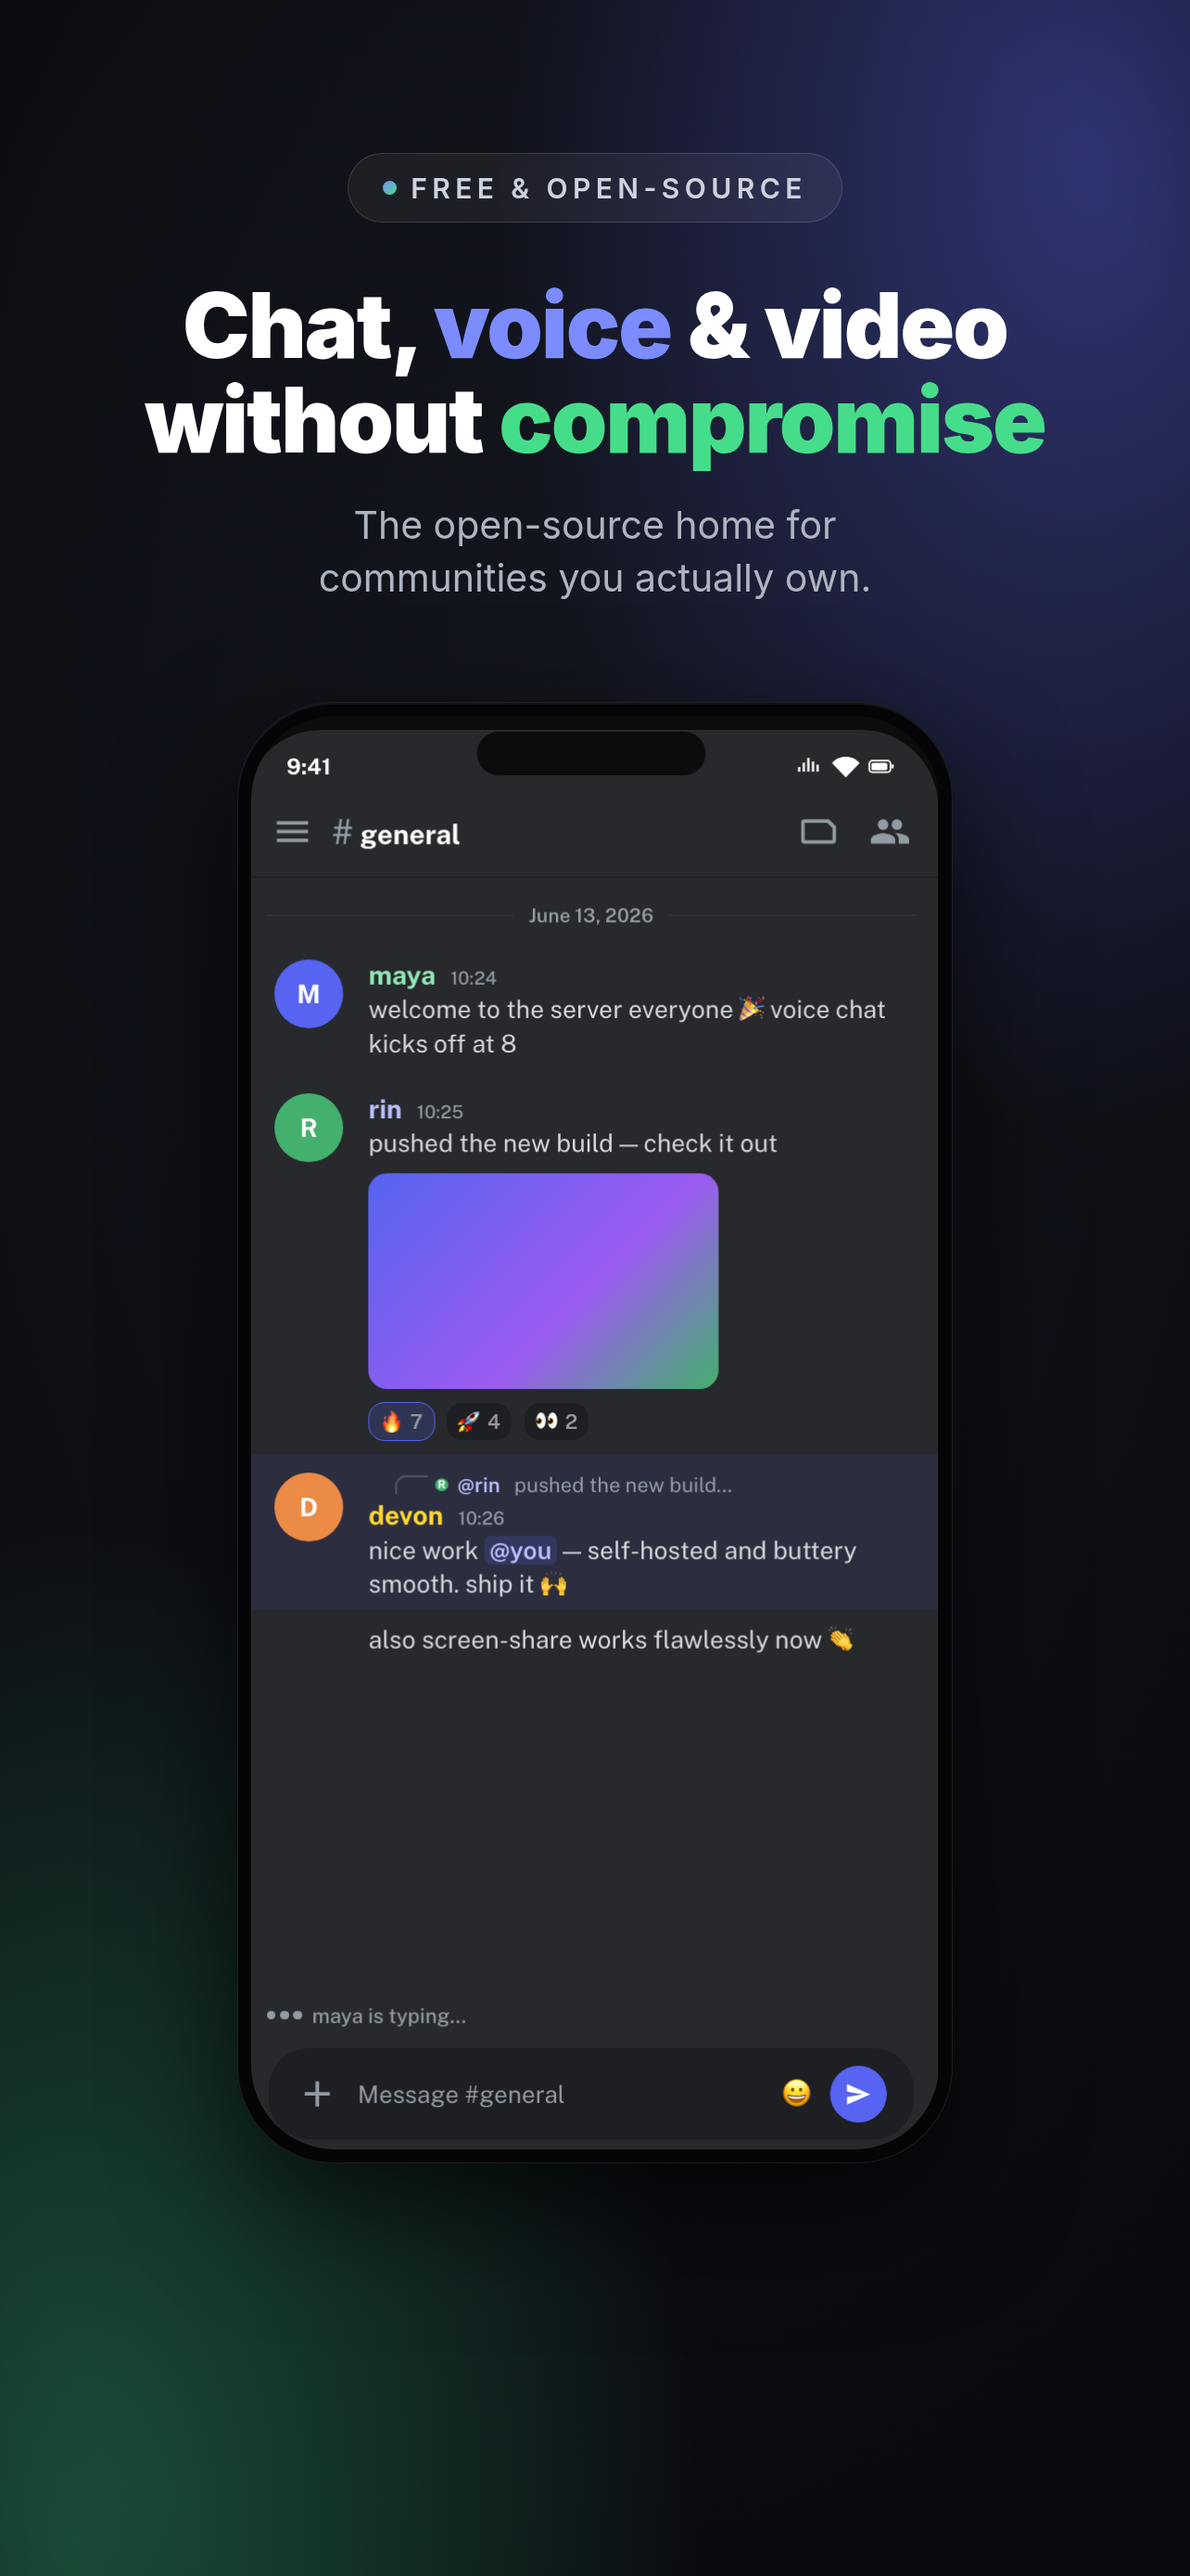
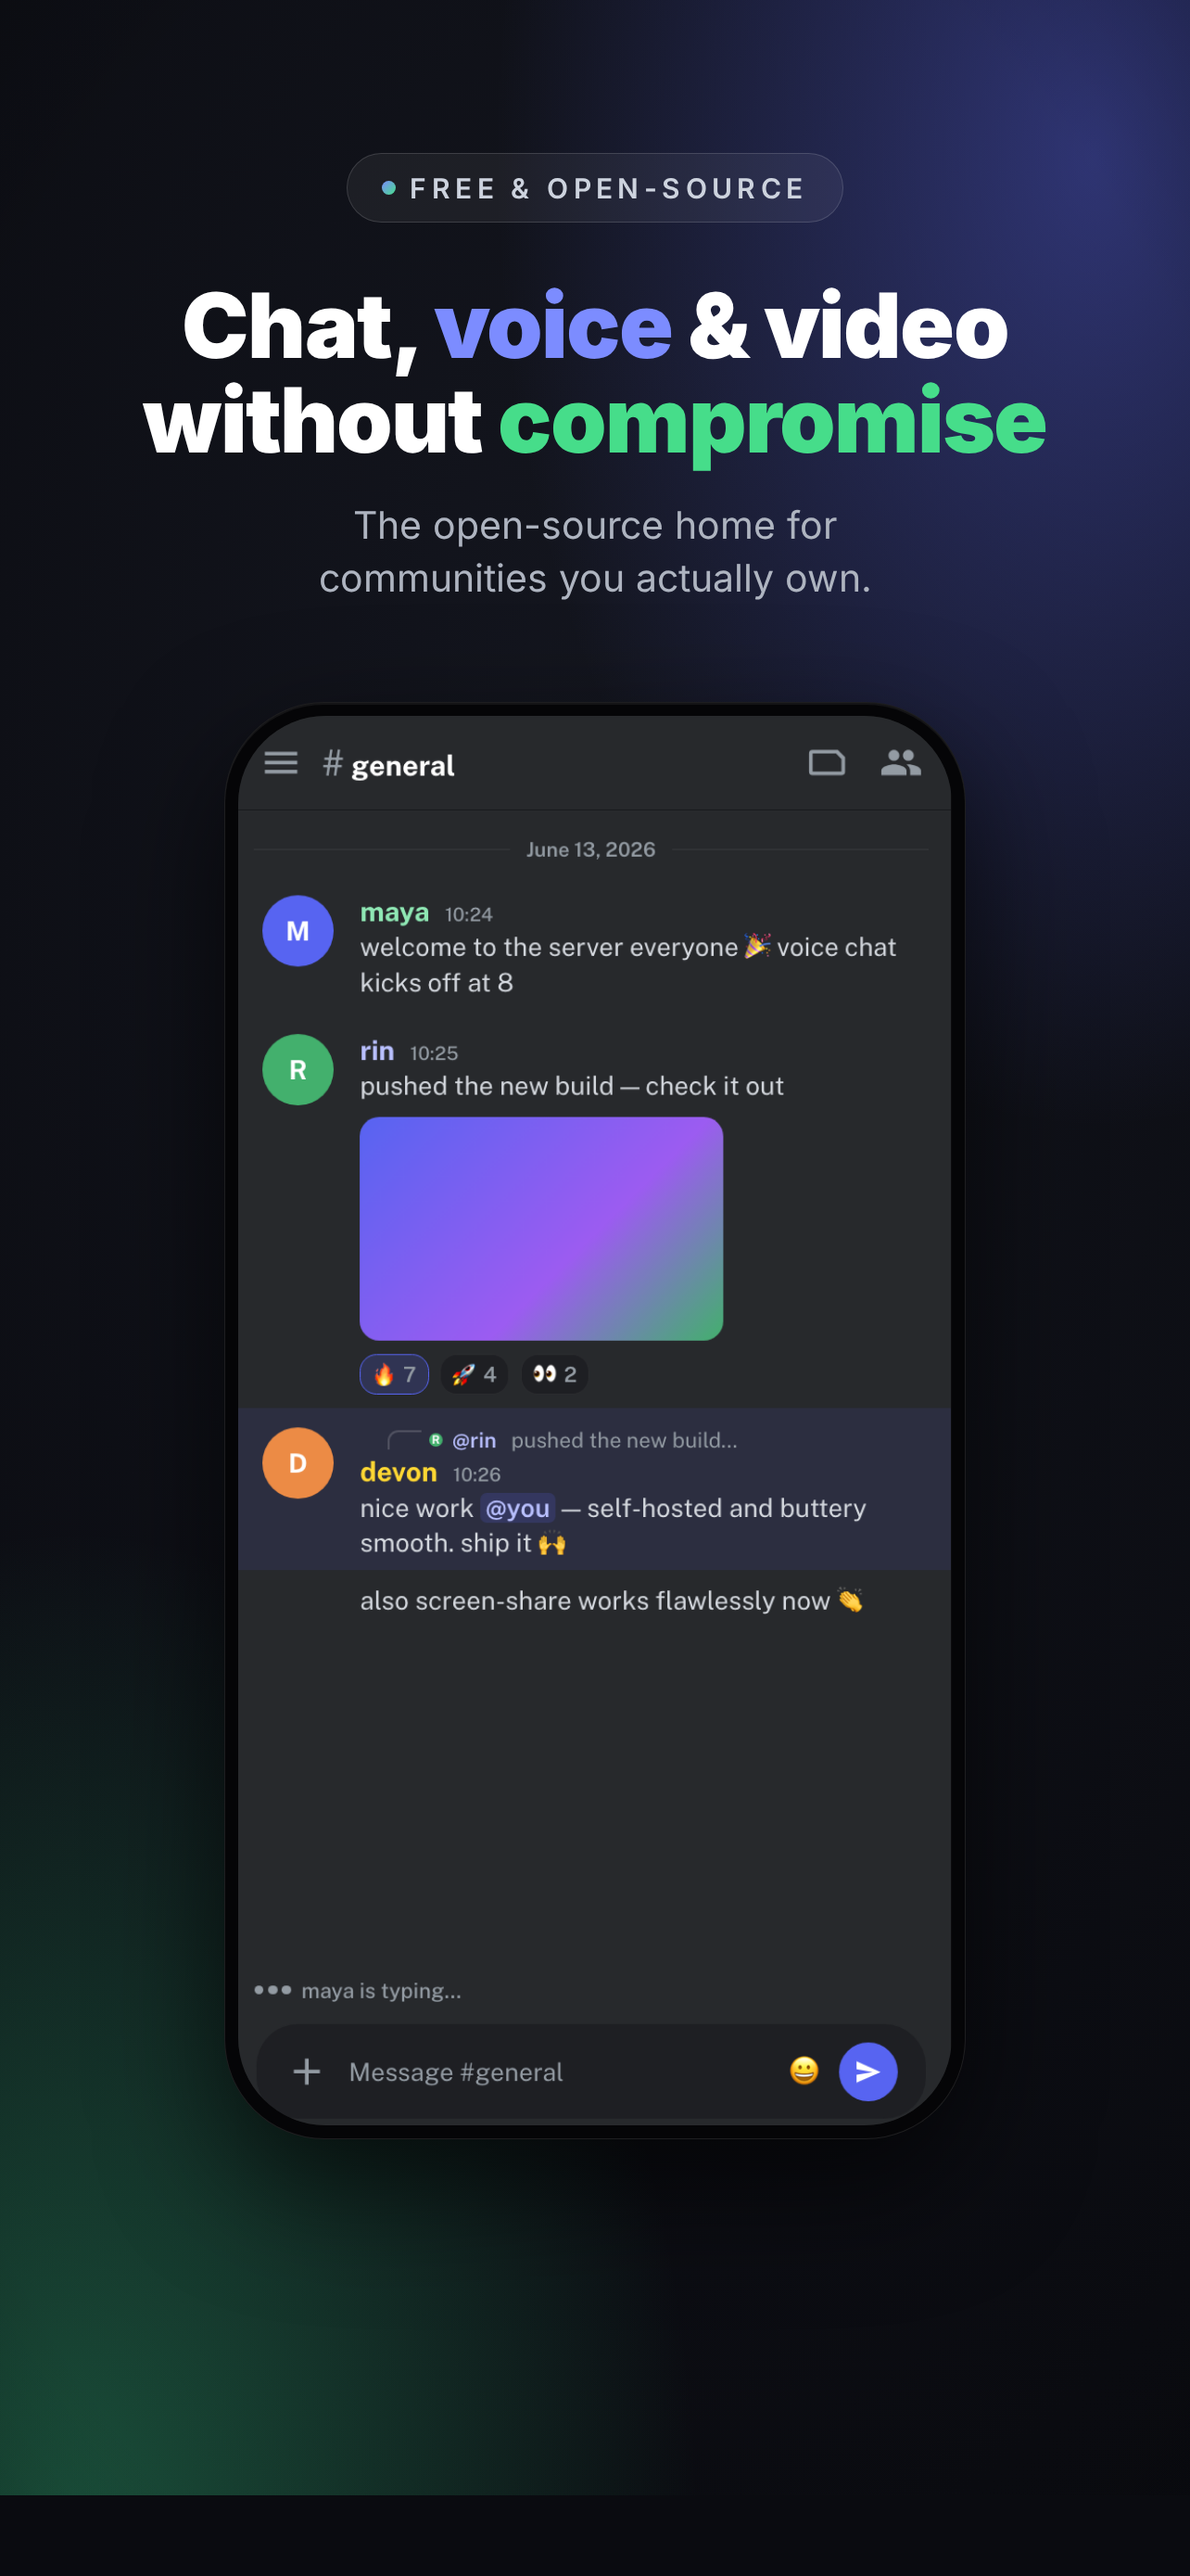
fix(ios): clear guideline 2.3.10 from the App Store screenshots
App Review rejected 0.2.16 (build 160) under 2.3.10 for two things the
generator in store-media/ios-generator/ put into all twelve screenshots.

Scene 6 rendered an iOS/Android/Desktop/Web badge row — the "information
about third-party platforms" the guideline names. The row, its CSS and the
JS that painted it are gone; every scene now has the same pill/headline/
subhead rhythm, so nothing is left hanging where it was. Scene 5's pill
loses "Powered by LiveKit / WebRTC" for "Low-Latency Calls" on the same
principle: the metadata describes the iOS app, not what is under it.

Every inner capture carried a painted 9:41 + signal/Wi-Fi/battery bar that
is not iOS's. They are cropped, not redrawn, so no status bar is shown at
all: each starts at the app's own app bar (740x1462, and 740x1422 for the
signed-out t-06, whose frame sat 44px lower). template.html's .screen
aspect follows the new capture size instead of the old 740/1542, so the
frames still crop rather than stretch.

iPad stops reusing the phone aspect. --screen-ar, the corner radii and the
bezel weight are per-device variables now, and the tablet frame uses an
iPad portrait 1640/2360 so a 2048x2732 render no longer reads as an iPhone
mockup. That frame is wider than a phone capture, so scenes can set `focus`
to pick which end survives the crop; the members and voice scenes anchor
bottom to keep the profile card and the call controls.

render.sh's iPhone window matches the canvas (1284x2778) instead of the
[…]

diff --git a/store-media/ios-generator/template.html b/store-media/ios-generator/template.html
@@ -20,13 +20,20 @@
     -webkit-font-smoothing:antialiased;
     position:relative;
   }
-  /* canvas size + per-device tuning */
+  /* canvas size + per-device tuning.
+     --screen-ar is the framed screen's aspect: the phone frame matches the
+     inner captures in ./inner (740x1462 after the status bar was cropped off),
+     the tablet frame uses an iPad portrait aspect so the iPad renders are not
+     an iPhone-shaped mockup. --dev-r/--screen-r/--dev-pad are fractions of
+     --dev-w, so each frame keeps its own corner radii and bezel weight. */
   body[data-device="iphone"]{ --W:1284px; --H:2778px; --padX:104px; --padTop:165px;
     --pill-fs:30px; --h-fs:97px; --h-lh:1.05; --sub-fs:41px; --sub-mt:34px;
-    --dev-w:772px; --gap:104px; --textmax:1080px; }
+    --dev-w:800px; --gap:104px; --textmax:1080px;
+    --screen-ar:740 / 1462; --dev-r:.135; --screen-r:.118; --dev-pad:.018; }
   body[data-device="ipad"]{ --W:2048px; --H:2732px; --padX:170px; --padTop:170px;
     --pill-fs:34px; --h-fs:108px; --h-lh:1.05; --sub-fs:46px; --sub-mt:38px;
-    --dev-w:828px; --gap:96px; --textmax:1500px; }
+    --dev-w:1188px; --gap:96px; --textmax:1500px;
+    --screen-ar:1640 / 2360; --dev-r:.055; --screen-r:.042; --dev-pad:.014; }
 
   #stage{
     width:var(--W); height:var(--H); position:relative; overflow:hidden;
@@ -60,24 +67,23 @@
     margin-top:var(--sub-mt); font-size:var(--sub-fs); line-height:1.4;
     font-weight:400; color:#aeb4c0; max-width:18em; margin-left:auto; margin-right:auto;
   }
-  .badges{ margin-top:1.1em; display:flex; gap:.6em; justify-content:center; flex-wrap:wrap; }
-  .badges span{ font-size:calc(var(--pill-fs) * .94); font-weight:600; color:#c3c9d4;
-    background:rgba(255,255,255,0.05); border:1px solid rgba(255,255,255,0.12);
-    padding:.42em 1em; border-radius:999px; }
-
   .device{
     margin-top:var(--gap); width:var(--dev-w); flex:0 0 auto; z-index:2;
-    background:#050507; border-radius:calc(var(--dev-w) * .135);
-    padding:calc(var(--dev-w) * .018);
+    background:#050507; border-radius:calc(var(--dev-w) * var(--dev-r));
+    padding:calc(var(--dev-w) * var(--dev-pad));
     border:1px solid rgba(255,255,255,0.10);
     box-shadow:0 2px 0 rgba(255,255,255,0.06) inset, 0 50px 130px rgba(0,0,0,0.65);
   }
   .screen{
-    width:100%; aspect-ratio:740 / 1542; overflow:hidden;
-    border-radius:calc(var(--dev-w) * .118);
+    width:100%; aspect-ratio:var(--screen-ar); overflow:hidden;
+    border-radius:calc(var(--dev-w) * var(--screen-r));
     background:#111;
   }
-  .screen img{ width:100%; height:100%; object-fit:cover; object-position:top center; display:block; }
+  /* Never `fill`: the capture is only ever cropped, never stretched. The tablet
+     frame is wider than a capture, so --focus picks which end of the taller
+     phone capture survives that crop. */
+  .screen img{ width:100%; height:100%; object-fit:cover;
+    object-position:var(--focus, top center); display:block; }
 </style>
 </head>
 <body>
@@ -86,7 +92,6 @@
     <div class="pill"><span class="dot"></span><span id="pill"></span></div>
     <h1 id="headline"></h1>
     <p class="sub" id="sub"></p>
-    <div class="badges" id="badges" style="display:none"></div>
   </div>
   <div class="device"><div class="screen"><img id="shot" alt=""></div></div>
 </div>
@@ -100,18 +105,21 @@
         sub:'Connect to as many Daccord servers as you like and switch between them in a tap.' },
     3:{ img:'inner/t-04.png', pill:'Members &amp; Roles',
         h:'Roles, <span class="blue">members</span><br>&amp; rich <span class="green">profiles</span>',
-        sub:'See who&rsquo;s online, browse colour-coded roles, and open a full profile with a tap.' },
+        sub:'See who&rsquo;s online, browse colour-coded roles, and open a full profile with a tap.',
+        focus:'center bottom' },
     4:{ img:'inner/t-05.png', pill:'Server Admin Tools',
         h:'Full <span class="blue">control</span> of<br>your <span class="green">server</span>',
         sub:'Manage roles, permissions, channels, bans and invites &mdash; all without leaving the app.' },
-    5:{ img:'inner/t-02.png', pill:'Powered by LiveKit / WebRTC',
+    5:{ img:'inner/t-02.png', pill:'Low-Latency Calls',
         h:'Crystal-clear <span class="green">voice,</span><br>video &amp; <span class="purple">screen share</span>',
-        sub:'Hop into a call in one tap. Camera, screen sharing and low-latency audio, built right in.' },
+        sub:'Hop into a call in one tap. Camera, screen sharing and low-latency audio, built right in.',
+        focus:'center bottom' },
     6:{ img:'inner/t-06.png', pill:'GPLv3 &middot; Self-Hosted',
         h:'Open source.<br>No ads. <span class="blue">No tracking.</span>',
-        sub:'Your server, your data, your rules. Run your own &mdash; nothing passes through us.',
-        badges:['iOS','Android','Desktop','Web'] },
+        sub:'Your server, your data, your rules. Run your own &mdash; nothing passes through us.' },
   };
+  // App Review guideline 2.3.10: nothing here may name or picture another
+  // platform, and no capture may show a status bar. See docs/app-store-deploy.md.
   const p = new URLSearchParams(location.search);
   const device = p.get('device') === 'ipad' ? 'ipad' : 'iphone';
   const scene = SCENES[p.get('scene') || '1'];
@@ -120,9 +128,10 @@
   document.getElementById('headline').innerHTML = scene.h;
   document.getElementById('sub').innerHTML = scene.sub;
   document.getElementById('shot').src = scene.img;
-  if (scene.badges){
-    const b = document.getElementById('badges'); b.style.display='flex';
-    b.innerHTML = scene.badges.map(x=>`<span>${x}</span>`).join('');
+  // Only the tablet frame crops a capture vertically, so the focal point is an
+  // iPad-only override; the phone frame already matches the capture aspect.
+  if (device === 'ipad' && scene.focus) {
+    document.documentElement.style.setProperty('--focus', scene.focus);
   }
 </script>
 </body>

diff --git a/docs/app-store-deploy.md b/docs/app-store-deploy.md
@@ -164,7 +164,9 @@ for review with automatic release on approval, and ships the Android build to
 `production`. What remains there is **per-app, set once**, and every later
 release reuses it:
 
-- **iOS:** screenshots, the App Privacy questionnaire, and the age rating, in
+- **iOS:** screenshots (generated from `store-media/ios-generator/` — see
+  [guideline 2.3.10](#guideline-2310-what-the-ios-screenshots-may-show) before
+  regenerating them), the App Privacy questionnaire, and the age rating, in
   App Store Connect. A brand-new app also needs its first release created by
   hand before API submissions work.
 - **Google Play:** the store listing, content rating and Data safety
@@ -273,6 +275,47 @@ chosen at all.
 Apple also asks for a screen recording of all three precautions, attached under
 **App Review Information → Notes** in App Store Connect, and it is reused by
 later submissions.
+
+## Guideline 2.3.10: what the iOS screenshots may show
+
+iOS 0.2.16 (build 160, reviewed 2026-08-30 on an iPad Air 11-inch) was rejected
+under *2.3.10 Performance: Accurate Metadata* for two things in the App Store
+screenshots — both generated from `store-media/ios-generator/`:
+
+- **A platform badge row.** Scene 6 of `template.html` rendered `iOS` /
+  `Android` / `Desktop` / `Web` pills. Apple reads any non-iOS platform as
+  "information about third-party platforms".
+- **A painted status bar.** Every capture in `store-media/ios-generator/inner/`
+  had a 9:41 + signal/Wi-Fi/battery bar drawn into it that is not iOS's.
+
+Three rules for anything that regenerates these:
+
+1. **No other platform, anywhere in the copy.** Not a badge, not a pill, not a
+   subhead — no "Android", "Windows", "Linux", "desktop", "web", "all your
+   devices", and no third-party product names either. Describe the iOS app only.
+2. **No status bar at all.** The inner captures are cropped so the app content
+   starts at its own app bar (740x1462, and 740x1422 for `t-06`); `--screen-ar`
+   in `template.html` matches that, so the frame never stretches them. If a
+   capture is ever replaced, crop the status bar off rather than redrawing an
+   iOS-looking one, and re-point `--screen-ar` at the new size.
+3. **iPad gets its own frame aspect.** `body[data-device="ipad"]` uses an iPad
+   portrait `--screen-ar` (1640/2360), not the phone's, so the 2048x2732 renders
+   do not read as an iPhone mockup on an iPad product page. Scenes may set
+   `focus` to choose which end of the taller phone capture that wider frame
+   keeps.
+
+Regenerate with `CHROME=<chromium> store-media/ios-generator/render.sh`, then
+copy `store-media/ios-generator/out/` over `store-media/ios-iphone-6.5/` and
+`store-media/ios-ipad-13/` — `out/` itself is scratch and is not committed. The
+sizes are fixed at iPhone 6.5" 1284x2778 and iPad 13" 2048x2732.
+
+Still outstanding: the inner captures are illustrative compositions of the app's
+**phone** layout. `AccordHomeScreen` switches to the three-pane layout at 720
+logical px (`_wideLayoutBreakpoint`), so a real iPad runs the wide layout and
+these do not show it. Replacing them needs genuine captures from an iPad or the
+iOS Simulator; until then the iPad set is honest about proportions but not about
+the layout. Screenshots are metadata, so a new upload in App Store Connect
+(Previews and Screenshots → View All Sizes in Media Manager) needs no new build.
 
 ## Guideline 2.5.1: no libmpv in the iOS build
 
